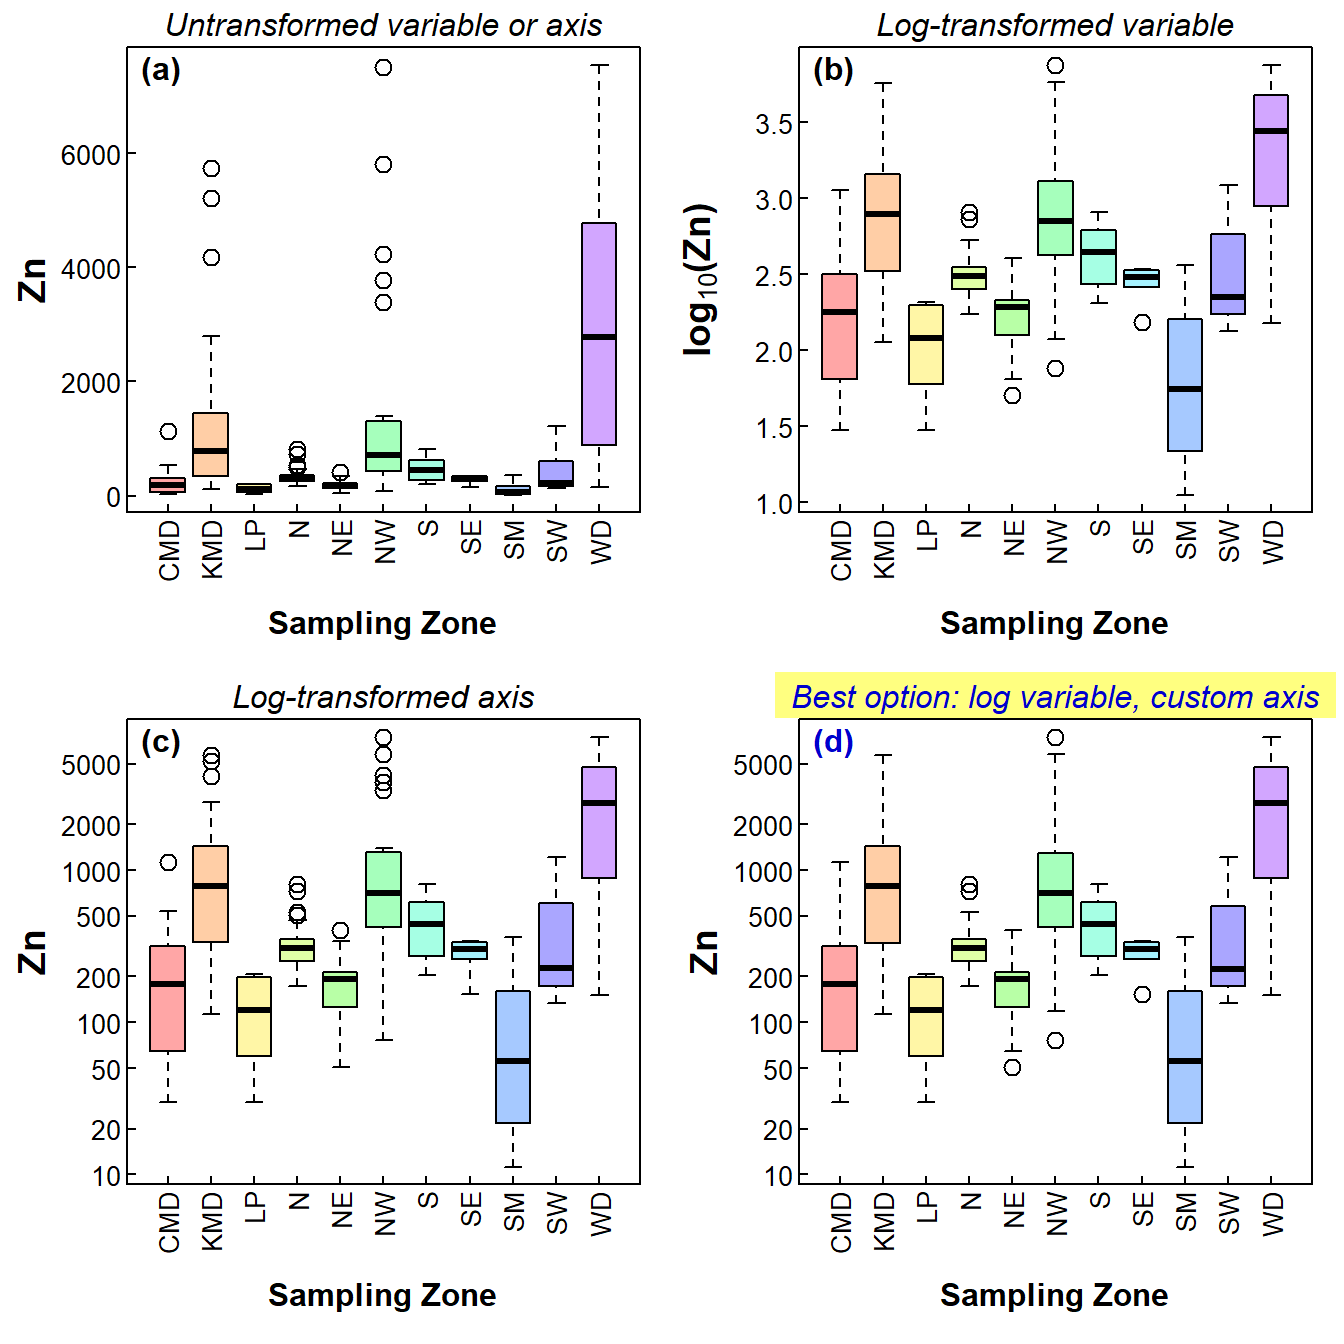
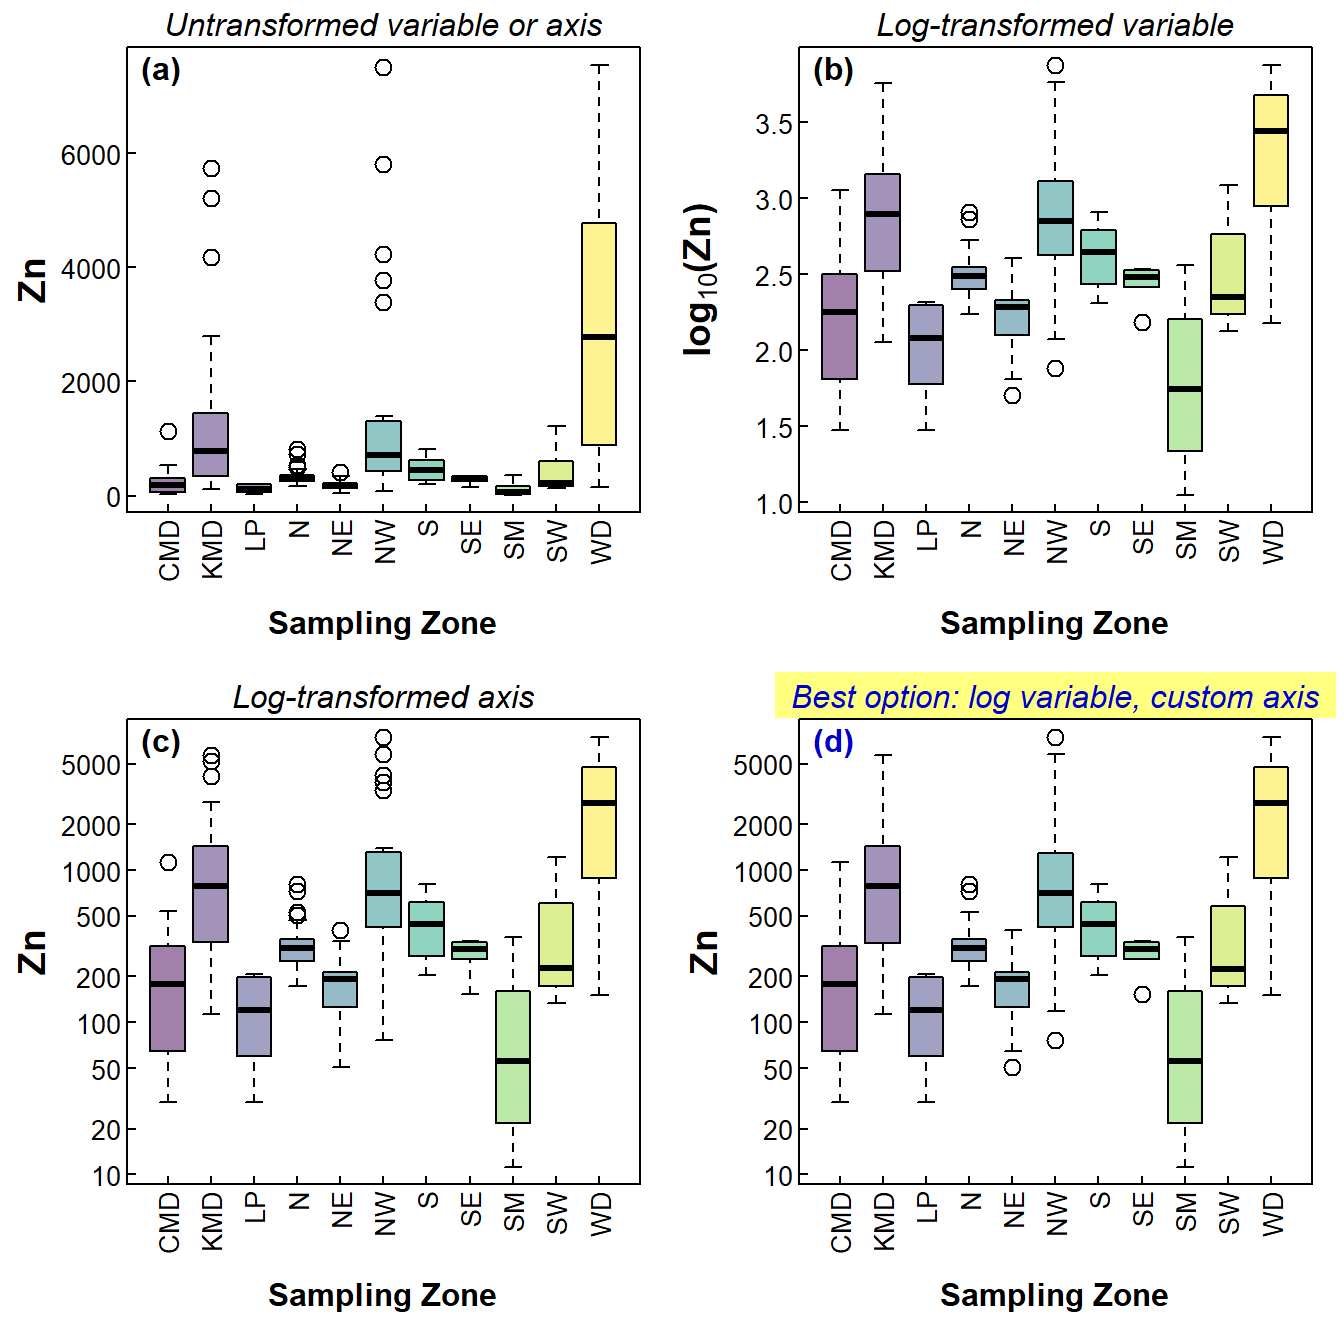
change to viridis colours

diff --git a/boxplot.html b/boxplot.html
@@ -315,27 +315,28 @@ actual values on the axis (<em>e.g</em>. for comparison with
 environmental guidelines).</p>
 <pre class="r"><code>par(mfrow=c(2,2),mar = c(5,4,1.5,1), mgp=c(2.4,0.2,0), tcl=0.25, font.lab = 2,
     xpd = TRUE)
+library(viridis)
 
-with(afsed1922, boxplot(Zn ~ Zone, col=rainbow(11,s=0.35,end=0.75), 
+with(afsed1922, boxplot(Zn ~ Zone, col=viridis(11, alpha=0.5), 
                         las=2, xlab=&quot;&quot;, cex = 1.4, cex.lab = 1.4))
 mtext(&quot;Sampling Zone&quot;,1,3,font=2)
 mtext(&quot;(a)&quot;, 3, -1.2, adj = 0.03, font = 2)
 mtext(&quot;Untransformed variable or axis&quot;, 3, 0.2, font=3)
 
-with(afsed1922, boxplot(log10(Zn) ~ Zone, col=rainbow(11,s=0.35,end=0.75), 
+with(afsed1922, boxplot(log10(Zn) ~ Zone, col=viridis(11, alpha=0.5), 
                         las=2, xlab=&quot;&quot;, cex = 1.4, cex.lab = 1.4,
                         ylab=expression(bold(paste(log[10],&quot;(Zn)&quot;)))))
 mtext(&quot;Sampling Zone&quot;,1,3,font=2)
 mtext(&quot;(b)&quot;, 3, -1.2, adj = 0.03, font = 2)
 mtext(&quot;Log-transformed variable&quot;, 3, 0.2, font=3)
 
-with(afsed1922, boxplot(Zn ~ Zone, log = &quot;y&quot;, col=rainbow(11,s=0.35,end=0.75), 
+with(afsed1922, boxplot(Zn ~ Zone, log = &quot;y&quot;, col=viridis(11, alpha=0.5), 
                         las=2, xlab=&quot;&quot;, cex = 1.4, cex.lab = 1.4))
 mtext(&quot;Sampling Zone&quot;,1,3,font=2)
 mtext(&quot;(c)&quot;, 3, -1.2, adj = 0.03, font = 2)
 mtext(&quot;Log-transformed axis&quot;, 3, 0.2, font=3)
 
-with(afsed1922, boxplot(log10(Zn) ~ Zone, col=rainbow(11,s=0.35,end=0.75), 
+with(afsed1922, boxplot(log10(Zn) ~ Zone, col=viridis(11, alpha=0.5), 
                         las=2, xlab=&quot;&quot;, cex = 1.4, cex.lab = 1.4, yaxt=&quot;n&quot;,
                         ylab = &quot;Zn&quot;))
 axis(2, at=log10(c(10,20,50,100,100,200,500,1000,2000,5000)), 
@@ -367,7 +368,7 @@ par(mfrow=c(1,2), mar=c(5,4,1,1), mgp=c(2.4,0.2,0), tcl=0.25, font.lab = 2, las=
 # change data object, variable &amp; factor names to suit your data 
 ci0 &lt;- group.CI(log10(Zn)~Zone, data=afsed1922)
 with(afsed1922, 
-     boxplot(log10(Zn) ~ Zone, col=rainbow(NROW(ci0),s=0.35,end=0.75),
+     boxplot(log10(Zn) ~ Zone, col=viridis(NROW(ci0), alpha=0.5),
              ylab=expression(bold(paste(log[10],&quot;Zn (mg/L)&quot;))),
              cex.lab=1.2, yaxt=&quot;n&quot;, xaxt = &quot;n&quot;, xlab = &quot;&quot;)
      ) 
@@ -399,8 +400,8 @@ points(seq(1,NROW(ci0)), ci0[,3], col=&quot;gray40&quot;,
 mtext(&quot;(a)&quot;, 3, -1.2, adj = 0.03)
 
 nc &lt;- nlevels(afsed1922$Type)
-palette(c(&quot;black&quot;,rainbow(nc,s=0.35,end=0.75),
-          rainbow(nlevels(afsed1922$Type),v=0.7,end=0.75, alpha=0.5),&quot;white&quot;))
+palette(c(&quot;black&quot;,viridis(nc, alpha=0.5),
+          viridis(nlevels(afsed1922$Type), alpha=0.75),&quot;white&quot;))
 with(afsed1922, 
      boxplot(log10(Zn) ~ Type, col=c(1:nc)+1,
              ylab=expression(bold(paste(log[10],&quot;Zn (mg/L)&quot;))),
